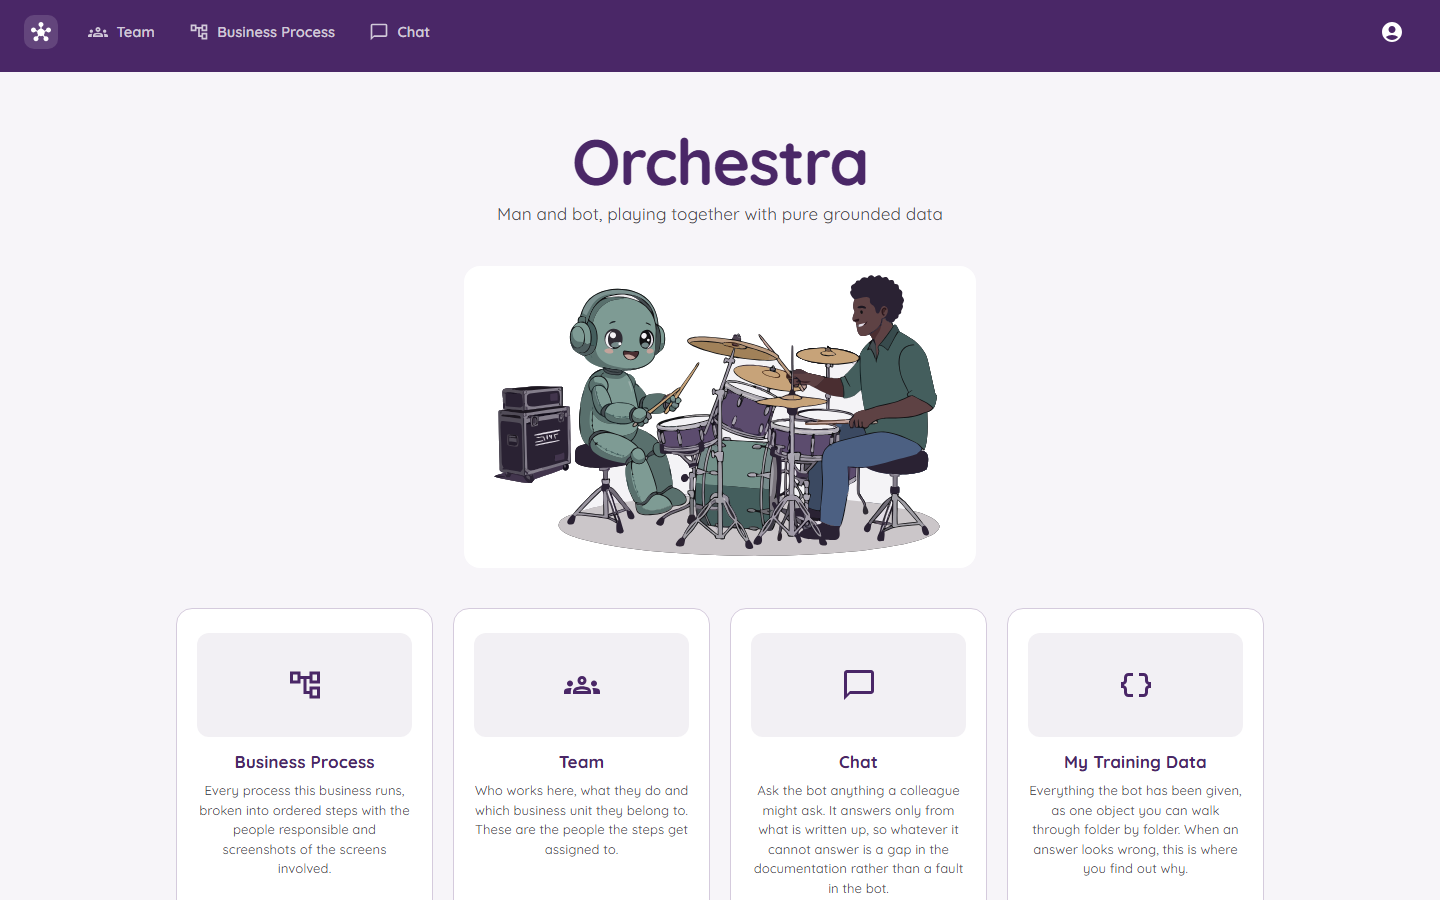
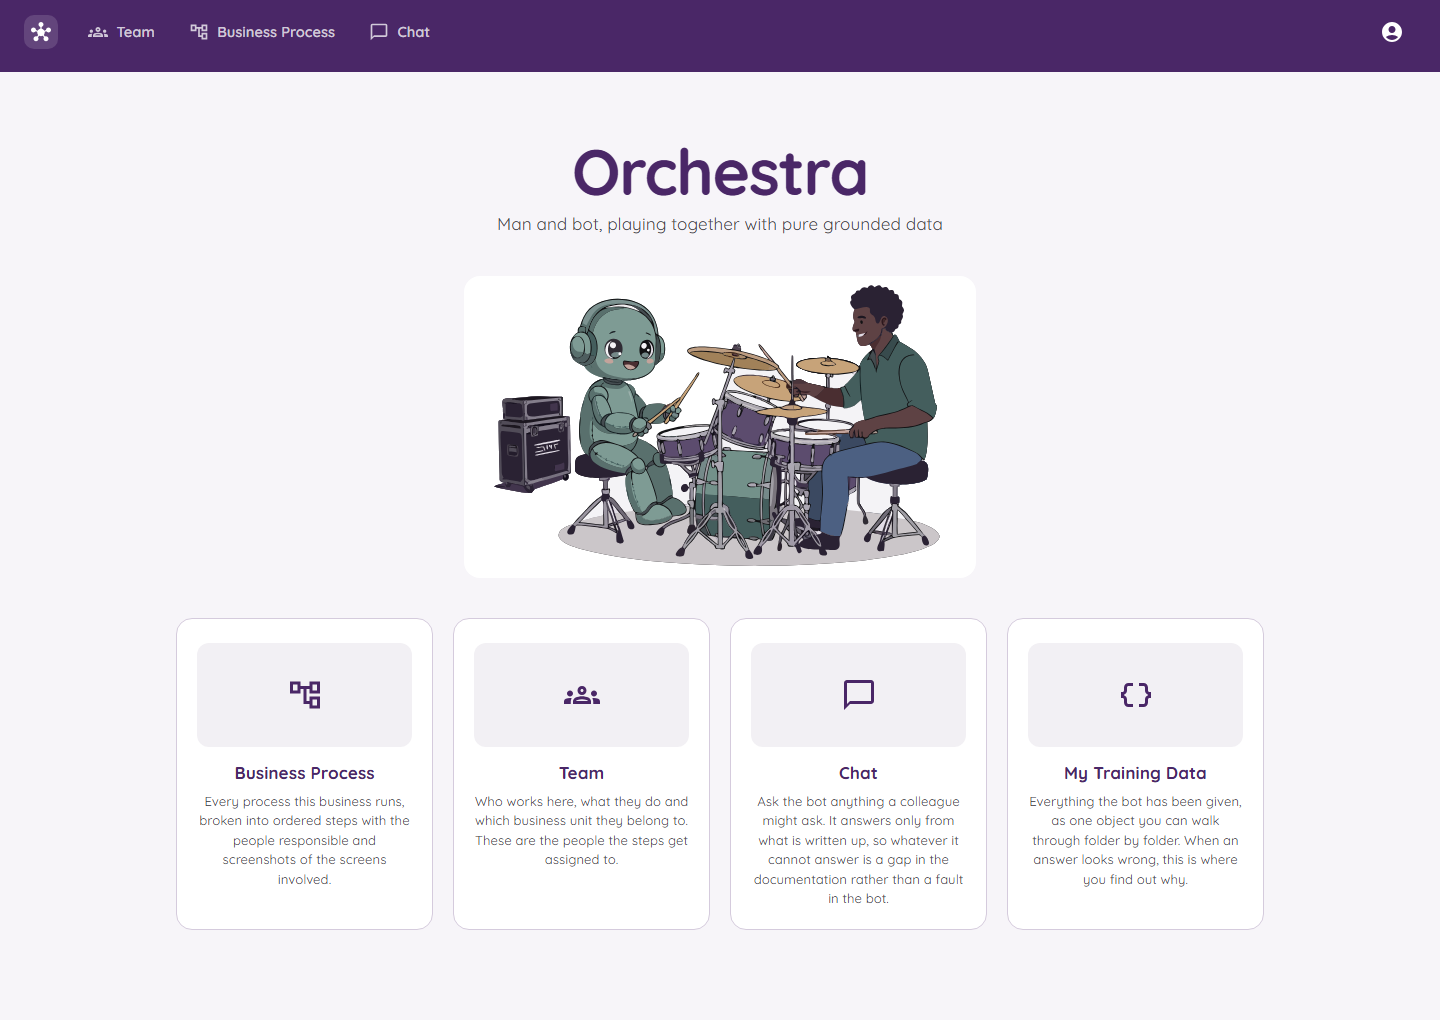
Add sign-in and start screen picture to the README
Also refresh the home screenshot so all four start tiles show, and reword
two comments that mentioned the old folder name from the design mockups.

diff --git a/src/TeamPortal.Mock/MockDataStore.cs b/src/TeamPortal.Mock/MockDataStore.cs
@@ -209,8 +209,8 @@ internal sealed class MockDataStore
             SortOrder = 1
         };
 
-        // The designs label this folder "HH PROCESS". Renamed here - the initials
-        // are a leftover from the old branding.
+        // The original designs used a different folder name. It is called
+        // Client Onboarding here.
         MockProcessFolder onboarding = new()
         {
             Id = NextProcessFolderId(),

diff --git a/README.md b/README.md
@@ -2,6 +2,11 @@
 
 *Man and bot, playing together.*
 
+![Orchestra: the sign-in screen on the left, and the first choice screen on the right](wiki/images/orchestra-overview.png)
+
+**Left:** sign in. **Right:** after signing in, pick where to start: Business Process, Team, Chat or My Training Data.
+New here? Read the [plain-language wiki](wiki/Home.md).
+
 Process documentation for a business, with a chatbot that answers from it.
 
 Folders hold **processes**, processes hold ordered **steps**, and each step names the

diff --git a/docs/developer/DataModel.md b/docs/developer/DataModel.md
@@ -371,7 +371,7 @@ public class Employee : AuditableEntity
 
 ## ProcessFolder
 
-The grey folder rows in the left sidebar ("The Business 9", "HH PROCESS 12"). It is
+The grey folder rows in the left sidebar ("The Business 9", "Client Onboarding 12"). It is
 just a container so long lists stay navigable.
 
 | Property        | Type     | Rules | Notes |
